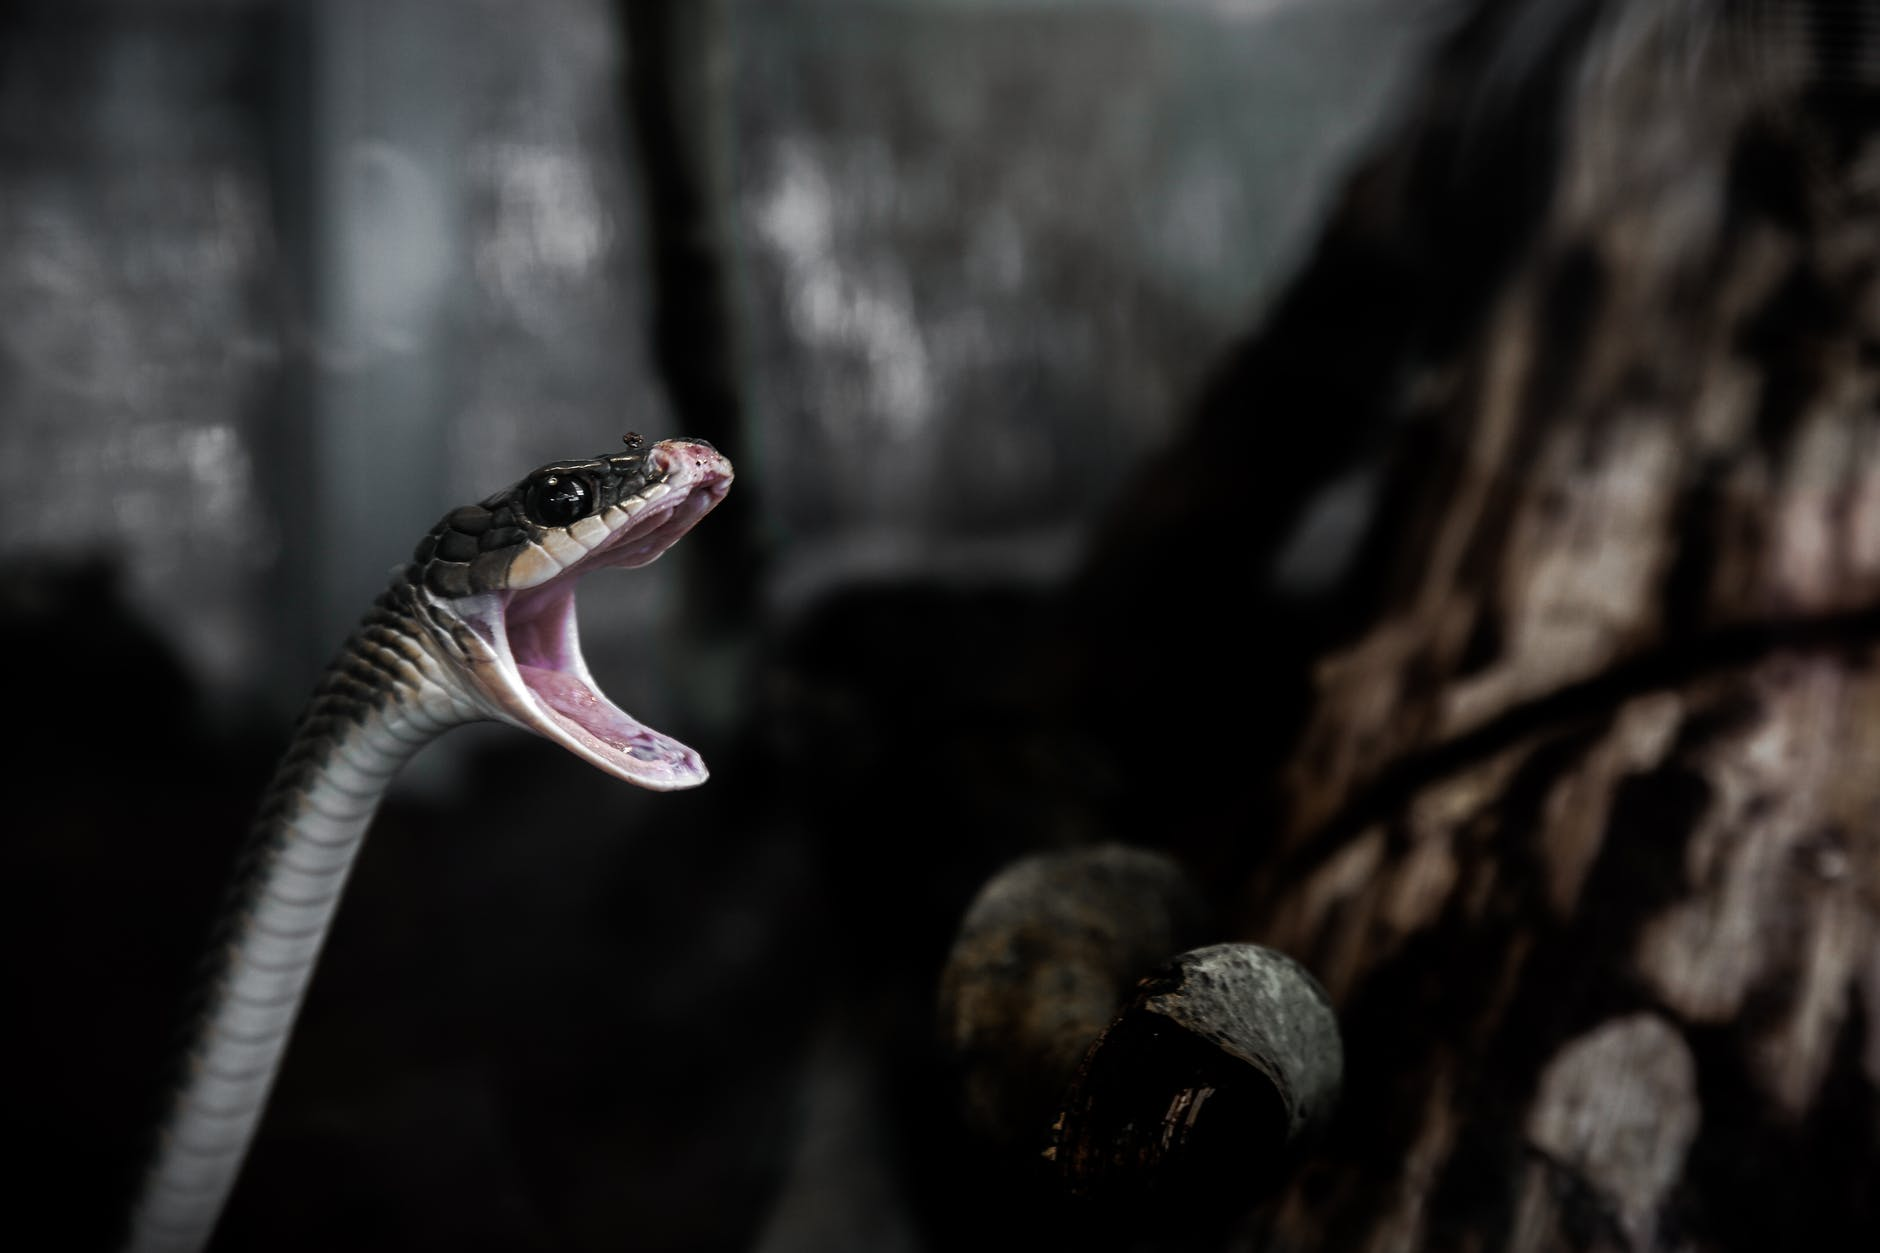
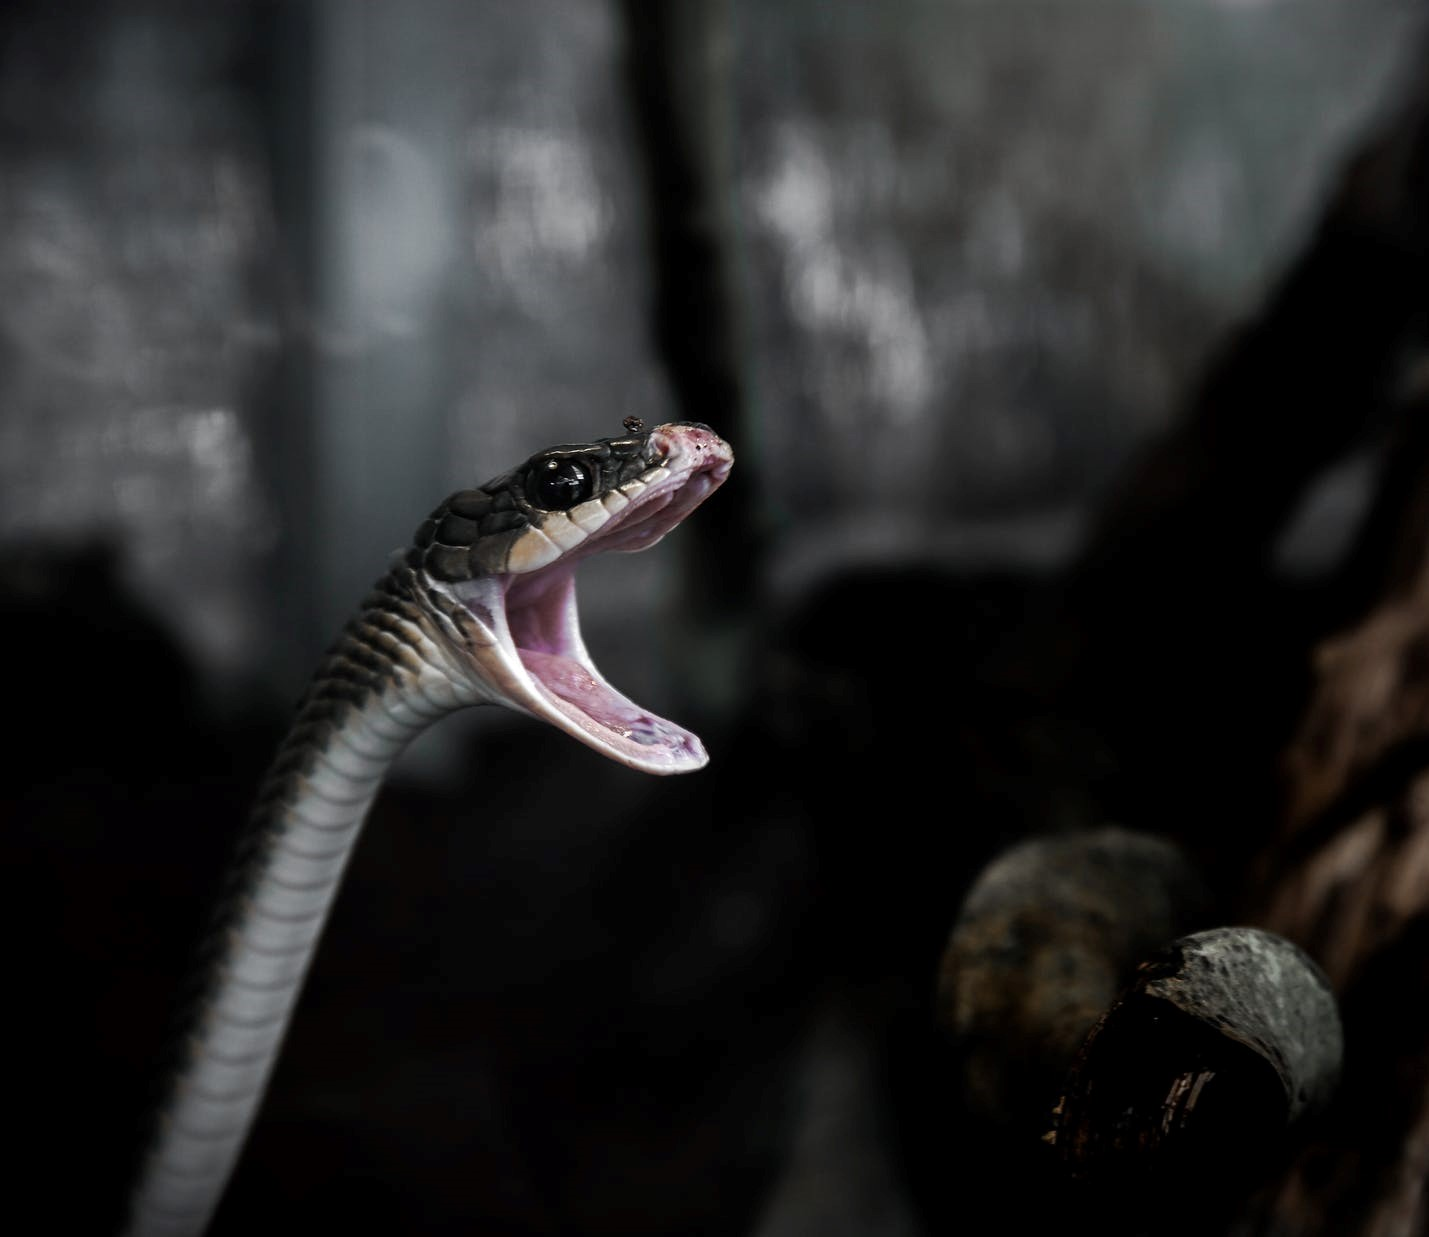
css-rules & content for startpage

diff --git a/www/js/StartPage.js b/www/js/StartPage.js
@@ -6,11 +6,15 @@ class StartPage {
   */
 
   render() {
+    $('body').attr('data-page','start-page');
     $('main').html(/*html*/`
-      <section class="row">
+      <section class="container-fluid start-cover-bg">
+      <div class="row start-text">
         <div class="col">
-          <h1>Välkommen!</h1>
-          <p>Välkommen till vår fina webbsida!</p>
+            <h1>Skaffa dig en ny vän</h1>
+            <p>En orm är lojalare än en hund och fäller ingen päls.</p>
+            <button type="button" class="btn btn-light btn-lg">Slingra mig till webb-shoppen</button>
+        </div>
         </div>
       </section>
     `);

diff --git a/www/js/ProductList.js b/www/js/ProductList.js
@@ -12,15 +12,17 @@ class ProductList {
   }
 
   render() {
+    $('main').attr('data-page','product-list-page');
     $('main').html(`
-      <section class="row">
+    <section class="container mt-4">
+    <div class="row">
         <div class="col">
           <h1>Våra produkter</h1>
         </div>
-      </section>
       <section class="row">
         <!-- Notice the "loop" using the array map method -->
         ${this.products.map(product => product.renderInList()).join('')}
+      </section>
       </section>
     `);
   }

diff --git a/www/index.html b/www/index.html
@@ -40,17 +40,18 @@
     </nav>
   </header>
 
-  <main class="container mt-4">
+  <main>
+
   </main>
 
   <footer class="container-fluid mt-4 bg-primary text-light">
     <div class="row">
       <div class="col">
-        <p class="m-0 py-3 text-center">©BadButiken 2019</p>
+        <p class="m-0 py-3 text-center">©irbo</p>
       </div>
     </div>
   </footer>
-
+  
   <script src="/js/libs/jquery.js"></script>
   <script src="/js/libs/popper.js"></script>
   <script src="/js/libs/bootstrap.js"></script>

diff --git a/www/js/AboutUs.js b/www/js/AboutUs.js
@@ -6,12 +6,15 @@ class AboutUs {
   */
 
   render() {
+    $('main').attr('data-page','about-us-page');
     $('main').html(/*html*/`
-      <section class="row">
+      <section class="container mt-4">
+      <div class="row">
         <div class="col">
           <h1>Om oss</h1>
           <p>Vi är litet företag som säljer ekologiska badprodukter.</p>
         </div>
+      </div>  
       </section>
     `);
   }

diff --git a/sass/_background-styles.scss b/sass/_background-styles.scss
@@ -1,0 +1,15 @@
+[data-page="start-page"]{
+    .start-cover-bg{
+        background-image: url(/images/backgroundORM.jpg);
+        background-position: center;
+        background-size: cover;
+        background-repeat: no-repeat;
+        height: 100vh;
+        text-align: right;
+    }   
+    .start-text{
+        padding-right: 10%;
+        padding-top: 20%;
+    }
+
+}

diff --git a/www/style.css b/www/style.css
@@ -9486,3 +9486,17 @@ body {
 main {
   flex: 1;
 }
+
+[data-page="start-page"] .start-cover-bg {
+  background-image: url(/images/backgroundORM.jpg);
+  background-position: center;
+  background-size: cover;
+  background-repeat: no-repeat;
+  height: 100vh;
+  text-align: right;
+}
+
+[data-page="start-page"] .start-text {
+  padding-right: 10%;
+  padding-top: 20%;
+}

diff --git a/www/js/Cart.js b/www/js/Cart.js
@@ -27,12 +27,14 @@ class Cart {
   }
   
   render(){
+    $('main').attr('data-page','cart-page');
     $('main').html(`
-  <section class="row">
+    <section class="container mt-4">
+    <div class="row">
     <div class="col">
     <h1>Cart</h1>
     <p> här ska vi lägga in en lista av valda produkter, t ex 
-
+    </div>
     </div>
     </section>
     `);

diff --git a/sass/style.scss b/sass/style.scss
@@ -8,3 +8,6 @@
 
 // My own CSS (as little as possible)
 @import 'sticky-footer';
+
+@import 'background-styles';
+
